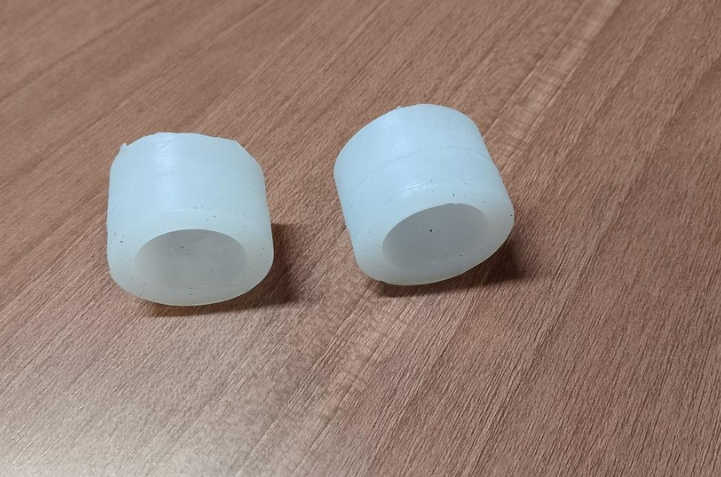
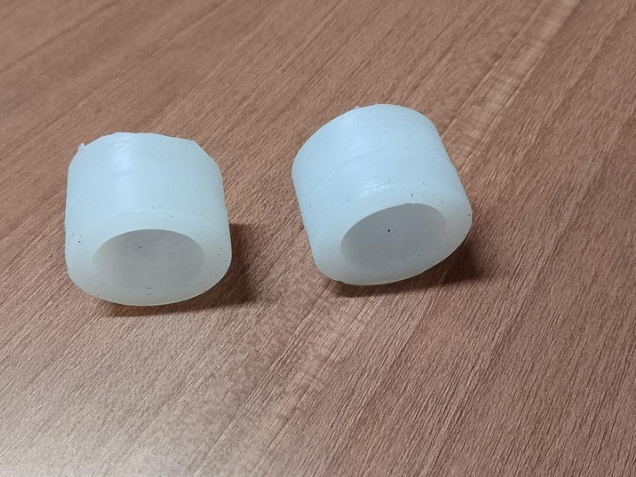
update 2

diff --git a/README.md b/README.md
@@ -12,10 +12,6 @@
 
 **Anastasios Karaivazoglou · IRONBRICK | FIBRAN**
 
-<p>
-  <img src="docs/images/cast-minisumo-wheel.jpeg" alt="Finished mini sumo wheel — PL30 silicone cast on a JSumo JS2622 aluminum rim" width="480"/>
-</p>
-
 </div>
 
 > [!NOTE]
@@ -258,7 +254,7 @@ Issues, forks, and PRs are welcome — especially traction data from different a
 
 | Finished mini sumo wheel | Fresh PL30 casts, right out of the mold |
 | --- | --- |
-| ![](docs/images/cast-minisumo-wheel.jpeg) | ![](docs/images/fresh-silicone-casts.png) |
+| <img src="docs/images/cast-minisumo-wheel.jpeg" width="360" height="270"/> | <img src="docs/images/fresh-silicone-casts.png" width="360" height="270"/> |
 
 ---
 
